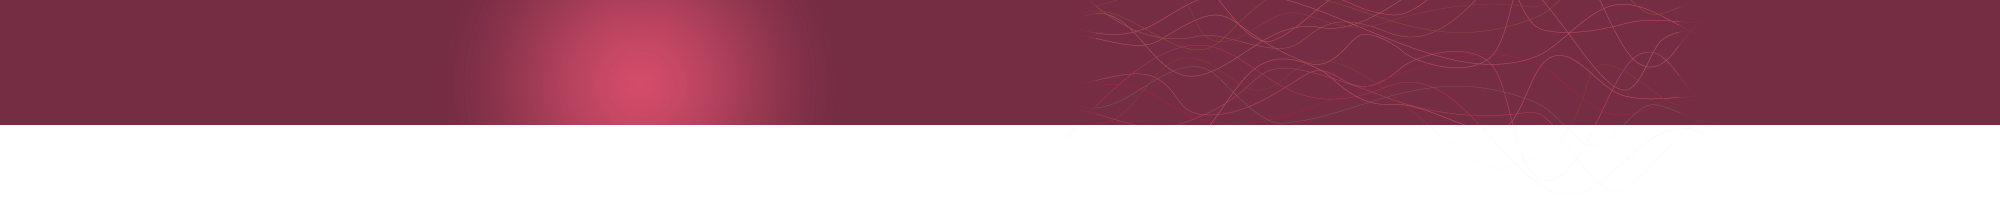
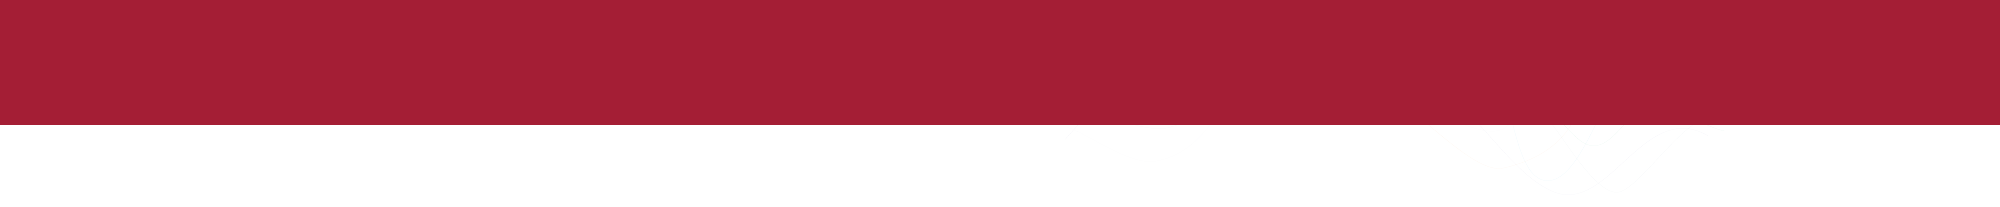
Reverted background image in header with new solid color of official Temple red.

diff --git a/css/tuvivo.css b/css/tuvivo.css
@@ -27,8 +27,7 @@ body {
     margin: 0 auto;
 }
 body {
-   /* background: #f3f3f0 url(../images/header-background.png) center 0 no-repeat; */
-   background-color: #a41e35;
+   background: #f3f3f0 url(../images/header-background.png) center 0 no-repeat;
 }
 a {
     color: #a41e35;
